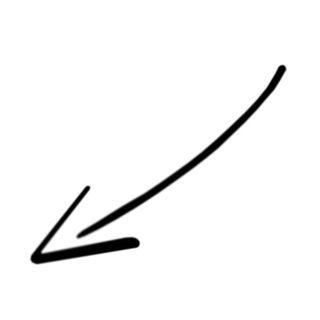
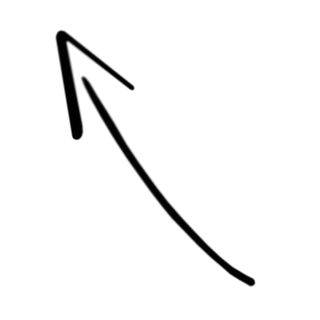
flèches ok après beug

Changed region(s): [[0.0938, 0.0938, 0.9062, 0.9062]]

diff --git a/app/assets/stylesheets/components/_mood-card.scss b/app/assets/stylesheets/components/_mood-card.scss
@@ -93,3 +93,16 @@
     display: block !important;
   }
 }
+
+
+.arrow-top-left {
+  width: 60px;
+  position: absolute;
+  margin: -43px -158px;
+}
+
+.arrow-top-right {
+  width: 60px;
+  position: absolute;
+  margin: -43px 104px;
+}
